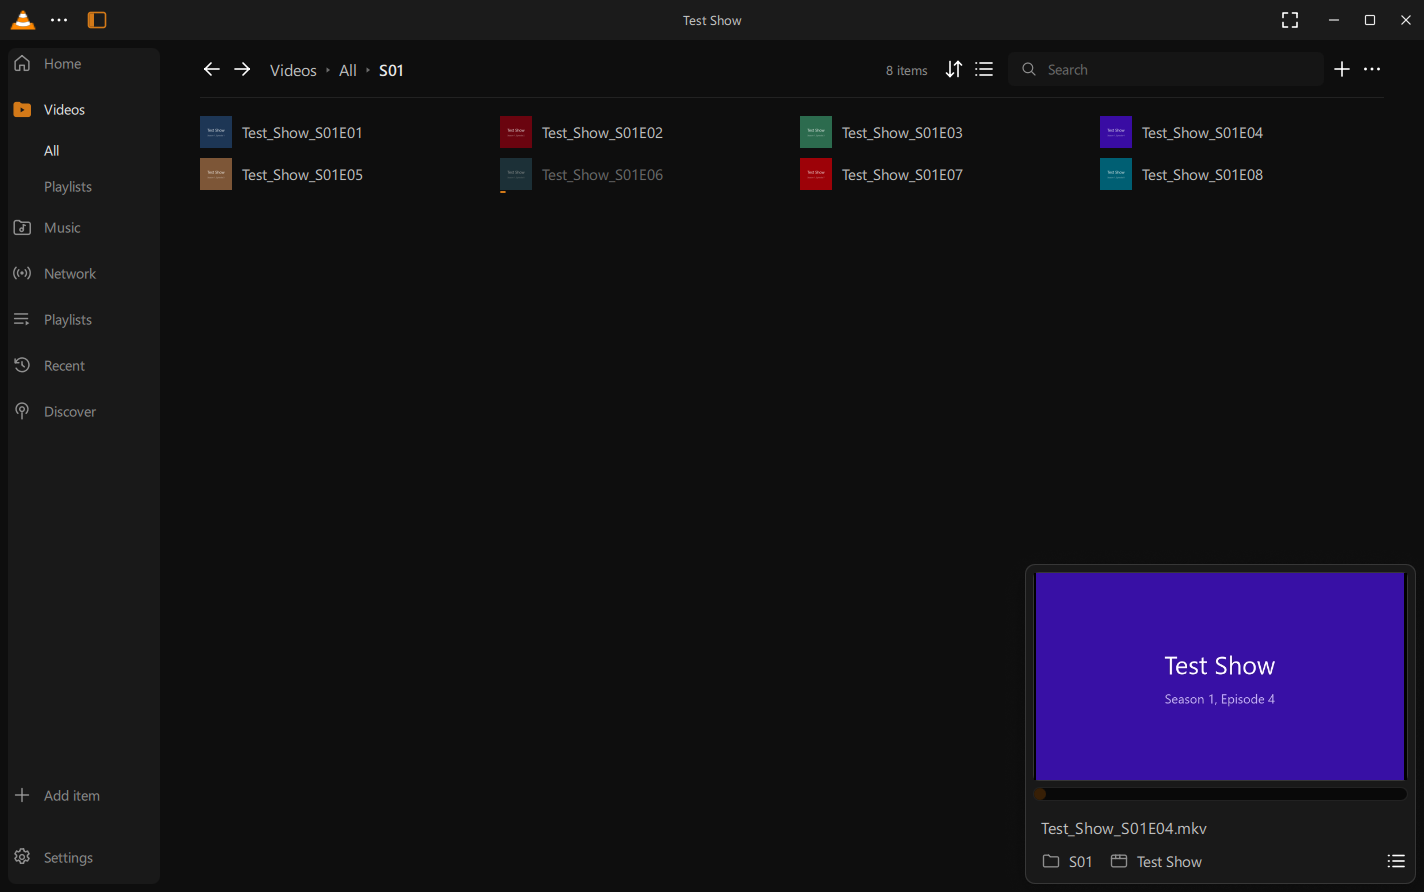
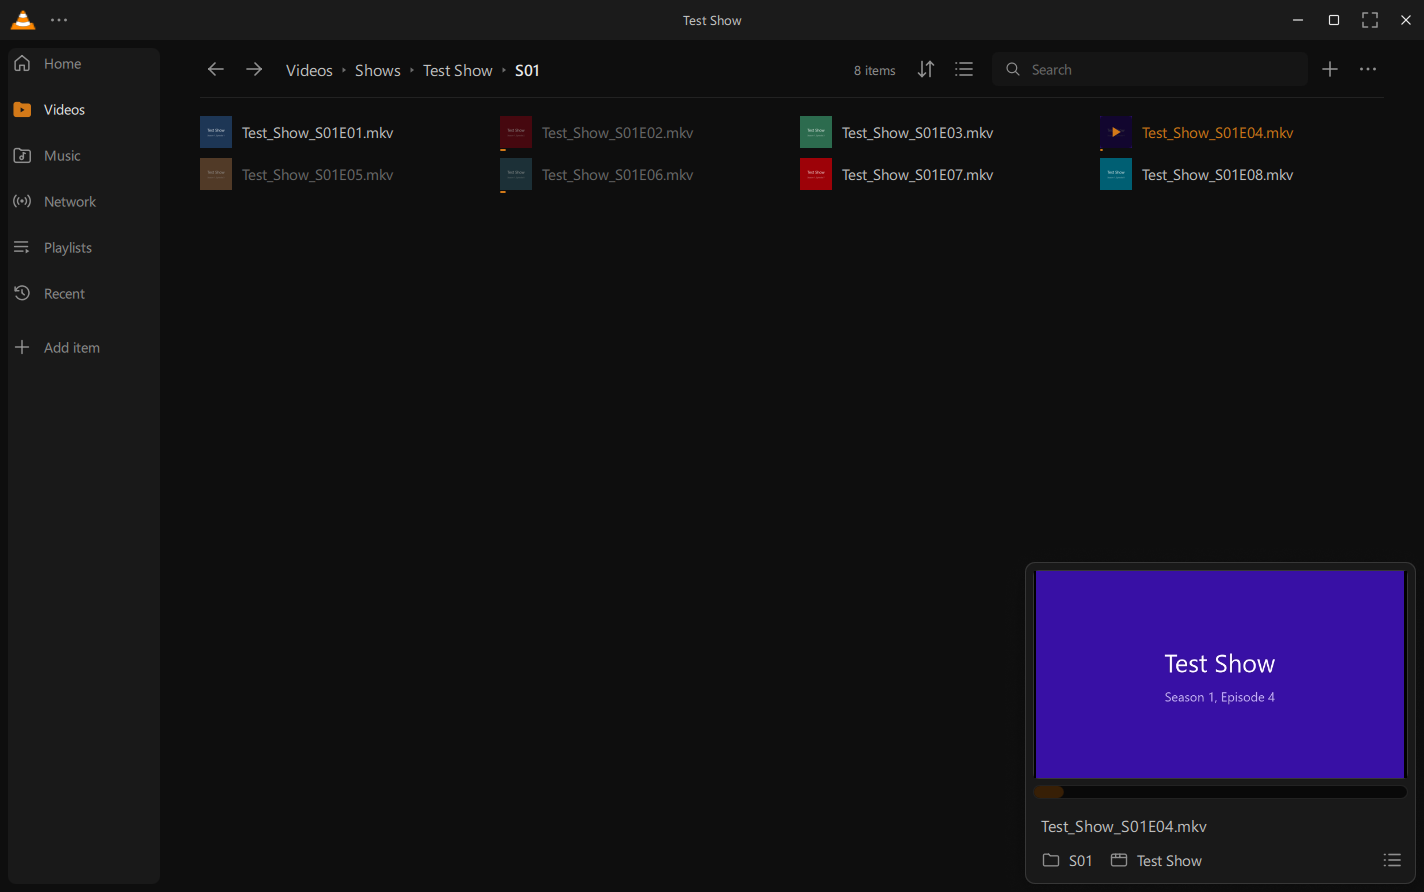
REDESIGN.md: the new parts of the redesign, new screenshots

diff --git a/REDESIGN.md b/REDESIGN.md
@@ -17,51 +17,59 @@ test media.
 
 ## The library
 
-- A rounded navigation panel (Home, Videos, Music, Network, Playlists, Recent),
-  with "Add item" (a folder, a network stream or a new playlist) and Settings at
-  the bottom.
+- A rounded navigation panel: Home, Videos, Music, Network, Playlists, Recent
+  and "Add item" (a folder, a network stream or a new playlist).
 - **Home**: Continue Watching, Listen Again (title and artist), Frequently
   Visited Folders, then the newest videos and music.
+- **Videos are the folders on the disk**: *Videos › Shows › The Wand › S01*,
+  each part of the path a step back. A folder holding a single folder is
+  skipped. All the videos, as one list, are in the "..." menu of the header.
 - A header with back/forward, the path, the item count, sorting (including
   *Unwatched First* and *Watched First*), the grid/list switch, search, "+" and
   "...".
-- **Grid** cards show the name only; what was watched is dimmed, with its
-  progress as an accent line under the picture. Videos are listed by name.
+- **Grid** cards show the file name only; what was watched is dimmed, with its
+  progress as an accent line under the picture, and what plays is in the
+  accent color.
 - **List** view: the compact list of the design, in columns, with small
   pictures.
 - **Mini player**: a card in a bottom corner with the video itself (or the
   cover), its progress (click or drag to seek, the time shows on hover), the
   file name, its folder (a click opens it in the library), and the queue under a
-  button. Drag it to the other corner; double click the picture to go back to
-  the player.
+  button. Its controls fade in on hover; drag it to the other corner; double
+  click the picture to go back to the player.
 - **Right-click menus** in the style of the design, with its items: Play, Mark
   as Watched, Favorite, Stream, Convert, Add to Queue, Add to Playlist, Show in
   File Explorer, Go to Source, Add Subtitle Tracks, Properties & Metadata.
 
 ![Library, grid and mini player](doc/redesign/library-grid.png)
 ![Library, list](doc/redesign/library-list.png)
+![Videos as folders](doc/redesign/library-folders.png)
 ![Library menu](doc/redesign/library-menu.png)
 
 ## The player
 
 - **Title bar**: the "..." menu (open media, recent files, profiles, keyboard
-  shortcuts, Customize Player, settings), the library button, the folder of
-  what plays, picture-in-picture and fullscreen.
+  shortcuts, Customize Player, settings), the library, the folder of what plays,
+  its name in the middle, and fullscreen next to the window buttons. It is
+  arranged in Customize Player like the control bar.
 - **Control bar**: one thin row with previous/play/next, the time as
   `00:02:10`, a thick flat seek bar, the volume cone, audio, subtitles,
-  settings and queue.
+  settings and queue. Its icons light up on hover.
 - **Seek preview**: hovering the seek bar shows the frame at that time, made in
   the background by VLC's thumbnailer.
 - **Settings sidebar** with Playback, Video, Audio and Subtitles tabs: speed,
   sleep timer, audio visualizer; video filters, colors, crop and zoom; the equalizer
   with its curves, compressor, spatializer, stereo widener and an audio test;
-  subtitle delay, speed, size, colors, outline and saved presets.
+  subtitle delay, speed, size, colors, outline and saved presets. It slides in
+  from the right.
 - **Show Waveform on Seekbar**, **Show Subtitle Timeline on Seekbar** and
   **Show Metadata**: the loudness of the audio along the seek bar, marks where
-  the subtitle lines are, and the format, codecs and size of what plays over the
-  video.
-- **Compact library** next to the video: the folder of what plays, the videos,
-  music, playlists and recent files, with their pictures and progress.
+  the subtitle lines are (from a subtitle file or from the subtitle track inside
+  the video), and the format, codecs and size of what plays over the video.
+- **Library next to the video**: it slides over the video and opens on the
+  folder of what plays (*... › The Wand › S01*), with a rail for Home, Videos
+  (the folders again), Music (Songs as folders, Albums, Artists, Genres),
+  Network, Playlists and Recent.
 - **Continue watching**: for a video left halfway, "You've watched till
   00:12:34 already." with a Continue Watching button, above the control bar.
 - The right-click menu of the video, a click on the video to pause and a double
@@ -71,7 +79,8 @@ test media.
 ![Player and settings sidebar](doc/redesign/player-sidebar.png)
 ![Waveform, subtitle timeline and metadata](doc/redesign/player-overlays.png)
 ![Seek preview](doc/redesign/seek-preview.png)
-![Compact library](doc/redesign/player-library.png)
+![Library next to the video](doc/redesign/player-library.png)
+![Its Home](doc/redesign/player-library-home.png)
 ![Video menu](doc/redesign/player-menu.png)
 
 ## Music
@@ -85,12 +94,18 @@ song is decoded in the background into a small mono file, faster than it plays.
 
 ## Customize Player
 
-The control bar is arranged in place: every control gets a dashed frame and
-can be dragged within the bar, between its left, middle and right groups, from
-the list of controls, or onto the list to take it away. With controls in the
-middle the seek bar goes on a line of its own above them. Save keeps the
-arrangement in the current **profile** ("..." > Profile, with "New" to start
-from a copy).
+The items of the design: Spacer, Divider, Playback Speed, Forward and Backward
+10s and 15s, Stop, Repeat, Shuffle, Record, Snapshot, Picture in Picture, HDR,
+Zoom, Right Sidebar, Quit VLC, VLC Settings, Go Home, Thumbnail, File Name,
+Artist Name, Folder Name, Playlist Name, Properties, Replay, Chapters,
+Favorite, Bookmark, Bookmarks and Playlists.
+
+Both the control bar and the title bar are arranged in place: every item gets
+a dashed frame and can be dragged within its bar, between the left, middle and
+right groups, from the list, or onto the list to take it away. With items in
+the middle of the control bar the seek bar goes on a line of its own above
+them. Save keeps the arrangement in the current **profile** ("..." > Profile,
+with "New" to start from a copy).
 
 ![Customize Player](doc/redesign/customize.png)
 
@@ -101,12 +116,16 @@ from a copy).
 - **Settings**: thirteen pages (App, Media, System) with search, the options of
   the design, advanced options folded, and the full preferences one click away.
 - **Keyboard Shortcuts**: grouped, with conflicts shown and Reset All.
-- **Add Subtitles**: to a file, a folder or the queue, from the computer,
-  OpenSubtitles or a link, matched by name or episode number, and remembered for
-  the next time the media plays.
+- **Add Subtitles**: to a file, a folder or the queue, from the computer, from
+  **OpenSubtitles** or from a link. Files from the computer are matched by name
+  or episode number. OpenSubtitles is searched in VLC, for the subtitles made
+  for the file (by its hash) and by name, in a chosen language; a click
+  downloads one next to the video. The choice is remembered for the next time
+  the media plays.
 - **Open Network Stream** (several links, saved as a playlist when named) and
   **New Playlist** (drop files or pick them).
 
+![Add Subtitles from OpenSubtitles](doc/redesign/subtitles-online.png)
 ![Settings](doc/redesign/settings.png)
 
 ## Themes
@@ -118,16 +137,13 @@ colors that apply everywhere at once.
 
 ## Where it differs from the design
 
-- Customize Player arranges the control bar; the title bar keeps its layout.
-  The list offers VLC's controls, so some items of the design that have no
-  control behind them (Go Home, File Name, Favorite, Replay...) are not there.
-- The subtitle timeline reads subtitle files (next to the video or chosen in
-  Add Subtitles), not subtitles inside the video file.
-- The waveform shows for songs; for videos it is off by default ("Show
-  Waveform on Seekbar"), since it reads the whole file.
-- The path in the header is the library's (Videos > All > S01), not the folders
-  on the disk.
-- Searching OpenSubtitles opens the site in the browser.
+- The window buttons (minimize, maximize, close) stay where they are; the
+  other items of the title bar move.
+- The video title VLC used to print over a video as it starts is off by default,
+  as the title bar shows it (Settings > Subtitle Defaults > On-Screen Messages
+  brings it back).
+- OpenSubtitles is searched with its REST interface (opensubtitles.org),
+  which needs no account but has a daily limit.
 - Developed and tested on Windows only.
 
 ## Fixes found along the way
@@ -137,8 +153,12 @@ colors that apply everywhere at once.
 - The volume on-screen display was never flushed (`src/player/osd.c`).
 - `VLC_LIBEXEC_PATH` dropped the file name on Windows, so `vlc-preparser.exe`
   could not be started from a custom location (`src/win32/dirs-common.c`).
-- The Qt plugin did not link `winmm`, needed by disc ejection, with Meson
-  (`modules/gui/qt/meson.build`).
+- The Qt plugin did not link `winmm`, needed by disc ejection, and the GnuTLS
+  plugin did not link the socket libraries on Windows, with Meson
+  (`modules/gui/qt/meson.build`, `modules/misc/meson.build`).
+- A new video surface reported its position before it had a size, so the
+  video showed for a moment at the corner of the window when switching
+  between the player and the library (`modules/gui/qt/maininterface/videosurface.cpp`).
 
 Also new outside the interface: on-screen messages caused by a keyboard
 shortcut show the key (`--osd-show-key`), and the FreeType text renderer
@@ -156,9 +176,10 @@ contribs:
   apply the same change to the installed `rhi/qrhi.h`, and provide
   `D3D12MemAlloc.h` on the include path.
 - VLC loads plugins with `LOAD_LIBRARY_SEARCH_SYSTEM32` only, so with shared
-  libraries the plugins' dependencies (Qt, FFmpeg...) must be loaded before
-  them, in `vlc.exe` and in `vlc-preparser.exe` (which reads files for the
+  libraries the plugins' dependencies (Qt, FFmpeg, GnuTLS...) must be loaded
+  before them, in `vlc.exe` and in `vlc-preparser.exe` (which reads files for the
   media library, the playlist and the thumbnails).
+- OpenSubtitles needs a TLS plugin (`-Dgnutls=enabled`).
 
 ## License
 
